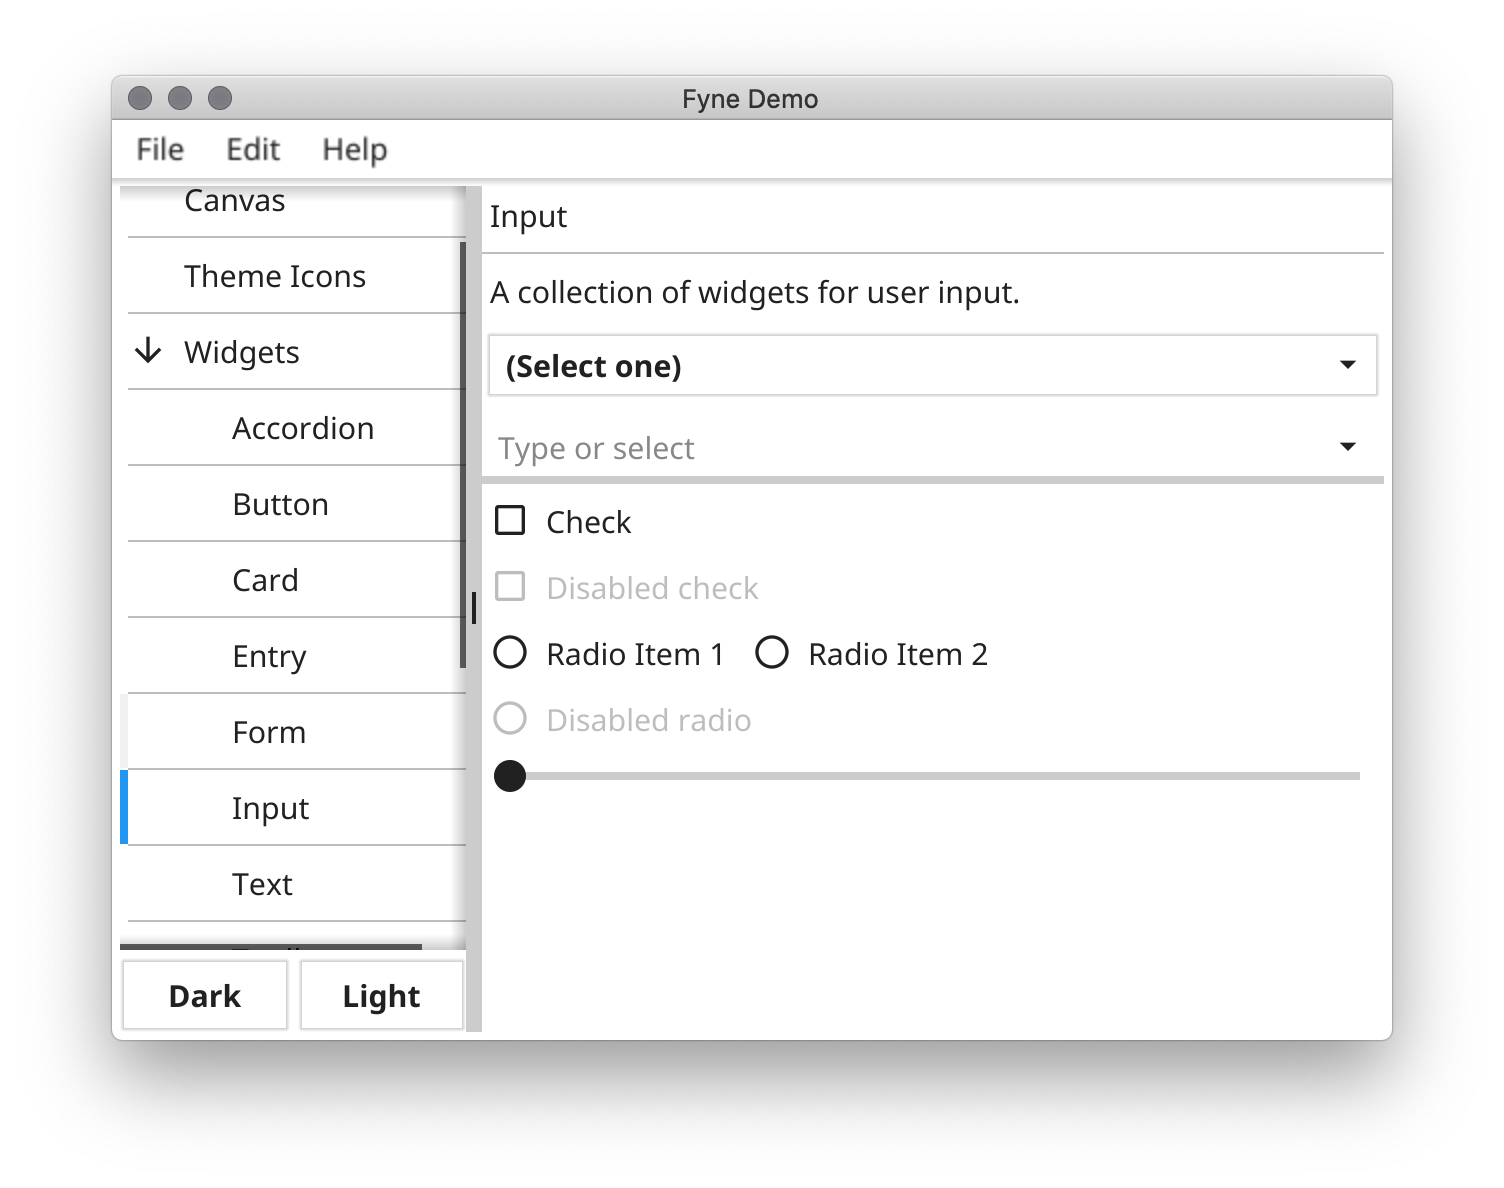
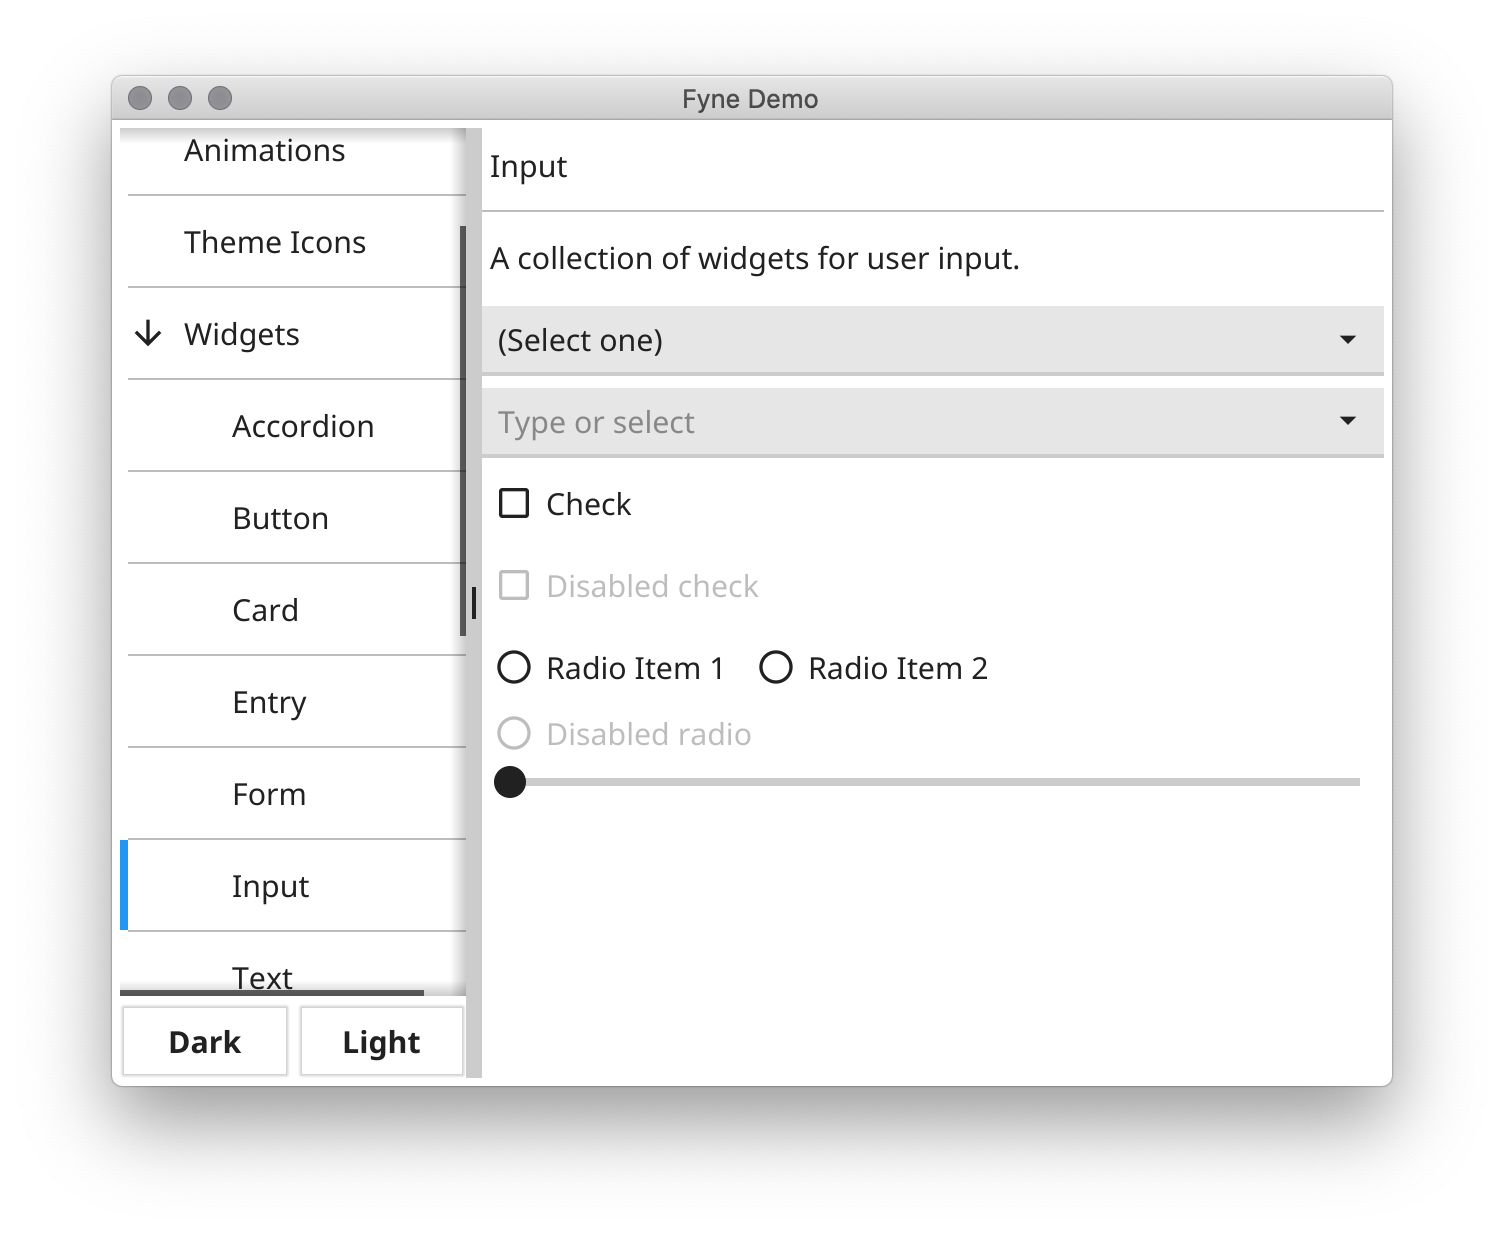
Update widget images

diff --git a/README.md b/README.md
@@ -42,13 +42,13 @@ To run a showcase of the features of Fyne execute the following:
 And you should see something like this (after you click a few buttons):
 
 <p align="center" markdown="1" style="max-width: 100%">
-  <img src="img/widgets-dark.png" width="752" height="594" alt="Fyne Hello Light Theme" style="max-width: 100%" />
+  <img src="img/widgets-dark.png" width="752" height="617" alt="Fyne Hello Light Theme" style="max-width: 100%" />
 </p>
 
 Or if you are using the light theme:
 
 <p align="center" markdown="1" style="max-width: 100%">
-  <img src="img/widgets-light.png" width="752" height="594" alt="Fyne Hello Light Theme" style="max-width: 100%" />
+  <img src="img/widgets-light.png" width="752" height="617" alt="Fyne Hello Light Theme" style="max-width: 100%" />
 </p>
 
 # Getting Started
